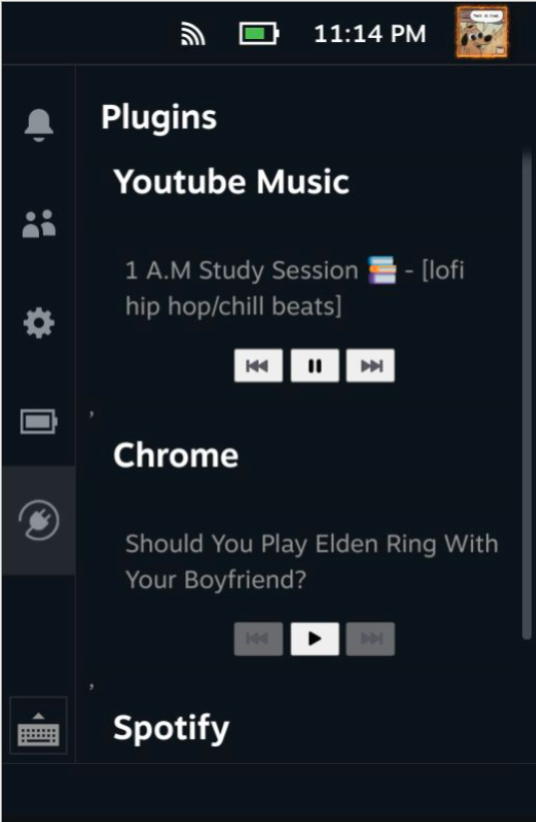
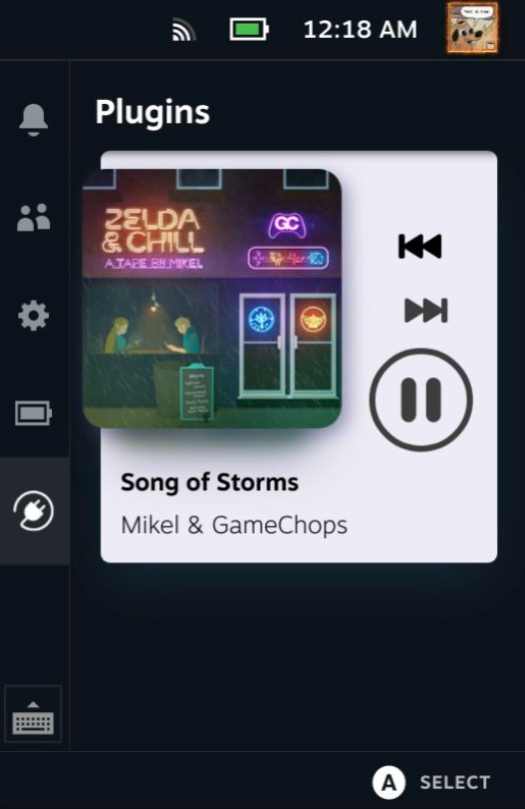
UI Refresh

diff --git a/media_controls.py b/media_controls.py
@@ -1,7 +1,10 @@
+import subprocess
 import dbus
+import sys
 from collections import deque
 
-# Shamelessly copied from https://github.com/airtower-luna/mpris-python/blob/main/mpris.py
+# Backend shamelessly copied from https://github.com/airtower-luna/mpris-python/blob/main/mpris.py
+# Frontend from: https://codepen.io/JavaScriptJunkie/pen/qBWrRyg
 class MprisService:
     """Class representing an MPRIS2 compatible media player"""
 
@@ -88,7 +91,7 @@ def _open_service(services, select):
 
 class Plugin:
     # The name of the plugin. This string will be displayed in the Plugin menu
-    name = "Music"
+    name = "Media Controls"
     # The name of the plugin author
     author = "Philip-Scott"
 
@@ -98,7 +101,137 @@ class Plugin:
                 <link rel="stylesheet" href="/steam_resource/css/2.css">
                 <link rel="stylesheet" href="/steam_resource/css/39.css">
                 <link rel="stylesheet" href="/steam_resource/css/library.css">
+                <style>
+                    .player {
+                        box-shadow: 0px 15px 35px -5px rgb(50 88 130 / 32%);
+                        border-radius: 6px;
+                        height: 254px;
+                        margin: 12px 12px;
+                        padding: 8px;
+                        display: flex;
+                        flex-direction: column;
+                        position: relative;
+                        background: rgb(237 235 247);
+                    }
 
+                    .media_art {
+                        width: 170px;
+                        height: 170px;
+                        margin-top: 4px;
+                        margin-left: -20px;
+                        flex-shrink: 0;
+                        position: relative;
+                        border-radius: 18px;
+                        background-size: cover;
+                        background-position: center;
+                        z-index: 1;
+                    }
+
+                    .media_art:before {
+                        content: "";
+                        background: inherit;
+                        width: 100%;
+                        height: 100%;
+                        box-shadow: 0px 10px 40px 0px rgb(76 70 124 / 50%);
+                        display: block;
+                        z-index: 1;
+                        position: absolute;
+                        top: 28px;
+                        transform: scale(0.8);
+                        filter: blur(10px);
+                        opacity: 0.9;
+                        border-radius: 24px;
+                    }
+
+                    .media_art:after {
+                        content: "";
+                        background: inherit;
+                        width: 100%;
+                        height: 100%;
+                        box-shadow: 4px 4px 11px 0px rgb(76 70 124 / 50%);
+                        display: block;
+                        z-index: 2;
+                        position: absolute;
+                        border-radius: 15px;
+                    }
+
+
+                    .media_info {
+                        position: absolute;
+                        top: 200px;
+                        color: black;
+                        display: flex;
+                        flex-direction: column;
+                        width: 95%; 
+                        z-index: 1;
+                    }
+
+                    .song_title {
+                        font-weight: 600;
+                        margin: 5px;
+                        white-space: nowrap;
+                        overflow: hidden;
+                        display: block;
+                        text-overflow: ellipsis;
+                        white-space: nowrap;
+                    }
+
+                    .song_artist {
+                        margin: 0px 5px;
+                        font-weight: lighter;
+                        white-space: nowrap;
+                        overflow: hidden;
+                        display: block;
+                        text-overflow: ellipsis;
+                        white-space: nowrap;
+                    }
+
+                    .spacer {
+                        flex-grow: 1;
+                    }
+
+                    .blur {
+                        filter: blur(15px);
+                        overflow: hidden;
+                        width: 100%;
+                    }
+                    
+                    .media_controls {
+                        position: absolute;
+                        display: flex;
+                        top: 96px;
+                        right: 8px;
+                        flex-direction: column;
+                        align-items: center;
+                        justify-content: center;
+                        text-align: center;
+                        height: 51px;
+                        z-index: 1;
+                    }
+
+                    .media_button {
+                        color: #3d3d3d;
+                        border-radius: 50%;
+                        border: none;
+                        background: transparent;
+                        width: 44px;
+                        height: 44px;
+                        margin-bottom: 8px;
+                        display: inline-block;
+                    }
+
+                    .media_button.play_button {
+                        background: transparent;
+                        margin: 0 8px 0 6px;
+                        border-radius: 50%;
+                        border: solid 4px currentColor;
+                        padding: 4px;
+                        width: 68px;
+                        height: 68px;
+                        display:inline-block;
+                    }
+
+                </style>
                 <script>
                     String.format = function (format) {
                         var args = Array.prototype.slice.call (arguments, 1);
@@ -108,61 +241,53 @@ class Plugin:
                         : match;
                         });
                     };
+
+                    const PLAYER_TITLE = `<div class="quickaccessmenu_Title_34nl5">{0}</div>`
                     
                     const PLAYER = `
-                        <div class="quickaccessmenu_Title_34nl5">{0}</div>
-                        <div class="quickaccessmenu_TabGroupPanel_1QO7b Panel Focusable gpfocuswithin" style="padding-left: 1.5rem;">
-                            <p id="current_song">{1}</p>
-                            <div style="width:100%; text-align: center;">
-                                {2}
+                        <div class="player">
+                            <div class="media_art" style="background-image: url({2})"></div>
+                            <div class="media_info">
+                                {0}
+                            </div>
+
+                            <div class="media_controls">
+                                {1}
                             </div>
                         </div>
                     `;
 
+                    const MEDIA_INFO = `
+                        <span class="song_title" >{0}</span>
+                        <span class="song_artist" >{1}</span>
+                    `
+
                     const BACK_BUTTON = `
-                        <button onclick="prevSong('{0}')" style="display:inline-block" {1}>
+                        <button onclick="prevSong('{0}')" class="media_button" {1}>
                             <?xml version="1.0" encoding="UTF-8" standalone="no"?>
-                            <svg height="16" width="16" version="1.1" id="svg6">
+                            <svg viewBox="0 0 16 16" version="1.1" id="svg6">
                             <defs
                                 id="defs10" />
                             <path
                                 d="M 0.66666673,4 C 0.2973333,4 0,4.2973332 0,4.6666666 v 6.6666654 c 0,0.369333 0.2973333,0.666666 0.66666673,0.666666 H 1.3333334 c 0.3693333,0 0.6666667,-0.297333 0.6666667,-0.666666 V 8.7747383 L 7.0273442,11.916665 C 7.1201822,11.965708 7.2210335,12 7.3333336,12 c 0.36819,0 0.6666666,-0.298476 0.6666666,-0.666666 V 8.7526029 L 13.027344,11.916665 C 13.120184,11.965708 13.221034,12 13.333334,12 13.701523,12 14,11.701524 14,11.333334 V 4.6666666 C 14,4.2984768 13.701523,4 13.333334,4 c -0.1123,0 -0.213152,0.034291 -0.30599,0.083333 L 8.0000002,7.2473953 V 4.6666666 C 8.0000002,4.2984768 7.7015236,4 7.3333336,4 7.2210335,4 7.1201823,4.034291 7.0273442,4.0833329 L 2.0000001,7.2252599 V 4.6666666 C 2.0000001,4.2973332 1.7026667,4 1.3333334,4 Z"
-                                style="font-variation-settings:normal;opacity:1;vector-effect:none;fill:#555761;fill-opacity:1;stroke:none;stroke-width:2.66667;stroke-linecap:round;stroke-linejoin:round;stroke-miterlimit:4;stroke-dasharray:none;stroke-dashoffset:0;stroke-opacity:1;stop-color:#000000;stop-opacity:1"
                                 id="path980-3" />
                             </svg>
                         </button>
                     `
 
                     const PLAY_PAUSE_BUTTON = `
-                        <button onclick="playPause('{0}')" style="display:inline-block">
+                        <button onclick="playPause('{0}')" class="media_button play_button">
                             {1}
                         </button>
                     `
 
                     const NEXT_BUTTON = `
-                        <button onclick="nextSong('{0}')" style="display:inline-block" {1}>
-                            <svg
-                            height="16"
-                            width="16"
-                            version="1.1"
-                            id="svg6">
-                            <metadata
-                                id="metadata12">
-                                <rdf:RDF>
-                                <cc:Work
-                                    rdf:about="">
-                                    <dc:format>image/svg+xml</dc:format>
-                                    <dc:type
-                                    rdf:resource="http://purl.org/dc/dcmitype/StillImage" />
-                                    <dc:title></dc:title>
-                                </cc:Work>
-                                </rdf:RDF>
-                            </metadata>
+                        <button onclick="nextSong('{0}')" class="media_button" {1}>
+                            <svg viewBox="0 0 16 16" fill="currentColor" version="1.1" id="svg6">
                             <defs
                                 id="defs10" />
                             <path
                                 d="M 15.333333,4 C 15.702667,4 16,4.2973332 16,4.6666666 v 6.6666654 c 0,0.369333 -0.297333,0.666666 -0.666667,0.666666 H 14.666667 C 14.297333,11.999998 14,11.702665 14,11.333332 V 8.7747383 L 8.9726558,11.916665 C 8.8798178,11.965708 8.7789665,12 8.6666664,12 8.2984764,12 7.9999998,11.701524 7.9999998,11.333334 V 8.7526029 L 2.972656,11.916665 C 2.879816,11.965708 2.778966,12 2.666666,12 2.298477,12 2,11.701524 2,11.333334 V 4.6666666 C 2,4.2984768 2.298477,4 2.666666,4 c 0.1123,0 0.213152,0.034291 0.30599,0.083333 L 7.9999998,7.2473953 V 4.6666666 C 7.9999998,4.2984768 8.2984764,4 8.6666664,4 8.7789665,4 8.8798177,4.034291 8.9726558,4.0833329 L 14,7.2252599 V 4.6666666 C 14,4.2973332 14.297333,4 14.666667,4 Z"
-                                style="font-variation-settings:normal;opacity:1;vector-effect:none;fill:#555761;fill-opacity:1;stroke:none;stroke-width:2.66667;stroke-linecap:round;stroke-linejoin:round;stroke-miterlimit:4;stroke-dasharray:none;stroke-dashoffset:0;stroke-opacity:1;stop-color:#000000;stop-opacity:1"
                                 id="path980-3" />
                             </svg>
                         </button>
@@ -177,36 +302,47 @@ class Plugin:
                     `;
 
                     const PLAY_ICON = `
-                    <svg xmlns="http://www.w3.org/2000/svg" width="16" height="16" fill="currentColor" class="bi bi-play-fill" viewBox="0 0 16 16">
+                    <svg xmlns="http://www.w3.org/2000/svg" fill="currentColor" class="bi bi-play-fill" viewBox="0 0 16 16">
                         <path d="m11.596 8.697-6.363 3.692c-.54.313-1.233-.066-1.233-.697V4.308c0-.63.692-1.01 1.233-.696l6.363 3.692a.802.802 0 0 1 0 1.393z"/>
                     </svg>
                     `
 
                     const PAUSE_ICON = `
-                    <svg xmlns="http://www.w3.org/2000/svg" width="16" height="16" fill="currentColor" class="bi bi-pause-fill" viewBox="0 0 16 16">
+                    <svg xmlns="http://www.w3.org/2000/svg" fill="currentColor" class="bi bi-pause-fill" viewBox="0 0 16 16">
                         <path d="M5.5 3.5A1.5 1.5 0 0 1 7 5v6a1.5 1.5 0 0 1-3 0V5a1.5 1.5 0 0 1 1.5-1.5zm5 0A1.5 1.5 0 0 1 12 5v6a1.5 1.5 0 0 1-3 0V5a1.5 1.5 0 0 1 1.5-1.5z"/>
                     </svg>
                     `
 
-                    function makePlayer (player) {
+                    function makePlayer (player, showTitle) {
                         properties = player.properties
+
+                        let html = ''
+
+                        if (showTitle) {
+                            html +=  String.format (PLAYER_TITLE, player.baseProps.Identity)
+                        }
 
                         let mediaControls = ''
 
                         mediaControls += String.format (BACK_BUTTON, player.id, properties.CanGoPrevious === 1 ? '' : 'disabled')
-                        mediaControls += String.format (PLAY_PAUSE_BUTTON, player.id, player.playbackStatus === 'Paused' ? PLAY_ICON: PAUSE_ICON)
                         mediaControls += String.format (NEXT_BUTTON, player.id, properties.CanGoNext === 1 ? '' : 'disabled')
+                        mediaControls += String.format (PLAY_PAUSE_BUTTON, player.id, player.playbackStatus === 'Paused' ? PLAY_ICON: PAUSE_ICON)
 
-                        return String.format (PLAYER, player.baseProps.Identity, player.title, mediaControls) 
+                        const mediaInfo = String.format (MEDIA_INFO, player.title, player.artist)
+
+                        html += String.format (PLAYER, mediaInfo, mediaControls, properties.Metadata["mpris:artUrl"]) 
+                        
+                        return html
                     }
 
-                    async function handleInitialValue() {
+                    async function updateUi() {
+                        console.log ("update")
                         const players = await call_plugin_method("get_player", {});
 
                         let html = ''
 
                         const playersHtml = players.map (player => {
-                            return makePlayer(player)
+                            return makePlayer(player, players.length > 1)
                         })
 
                         html += playersHtml
@@ -219,22 +355,39 @@ class Plugin:
 
                     async function playPause (playerId) {
                         const players = await call_plugin_method("playPause", { playerId });
-                        handleInitialValue()
                     }
 
                     async function prevSong (playerId) {
                         const players = await call_plugin_method("prevSong", { playerId });
-                        handleInitialValue()
                     }
 
                     async function nextSong (playerId) {
                         const players = await call_plugin_method("nextSong", { playerId });
-                        handleInitialValue()
+                    }
+
+                    async function startLoop () {
+                        window.setInterval(myCallback, 500);
+                    }
+
+                    let loopId = -1;
+
+                    async function init () {
+                        window.addEventListener('focus', (event) => {
+                            loopId = window.setInterval(updateUi, 1000);
+                        });
+
+                        window.addEventListener('blur', (event) => {
+                            window.clearInterval(loopId);
+                        });                        
+                        
+                        loopId = window.setInterval(updateUi, 1000);
+                        
+                        updateUi();
                     }
 
                 </script>
             </head>
-            <body onload="handleInitialValue()">
+            <body onload="init()">
                 <div id="MPRIS_PLAYER"></div>
             </body>
         </html>
@@ -242,6 +395,12 @@ class Plugin:
 
     # The HTML that will be used to display a widget in the plugin main page
     tile_view_html = ""
+
+    hot_reload = True
+
+    async def __main(self):
+        tile_view_html = ""
+
 
     async def get_player(self):
         services = get_services()

diff --git a/README.md b/README.md
@@ -4,6 +4,7 @@ This is very WIP plugin for adding the native (MPRIS) media controls to the [Ste
 
 ![Plugin image](./.images/plugin.png)
 
+
 ## Changes Required to the Plugin Loader
 
 To load the plugin, I had to do the following changes to the `plugin_loader.service` from the Plugin Loader in order to be able to connect to the User's info instead of the Root's. Hopefully this won't be required for future versions
